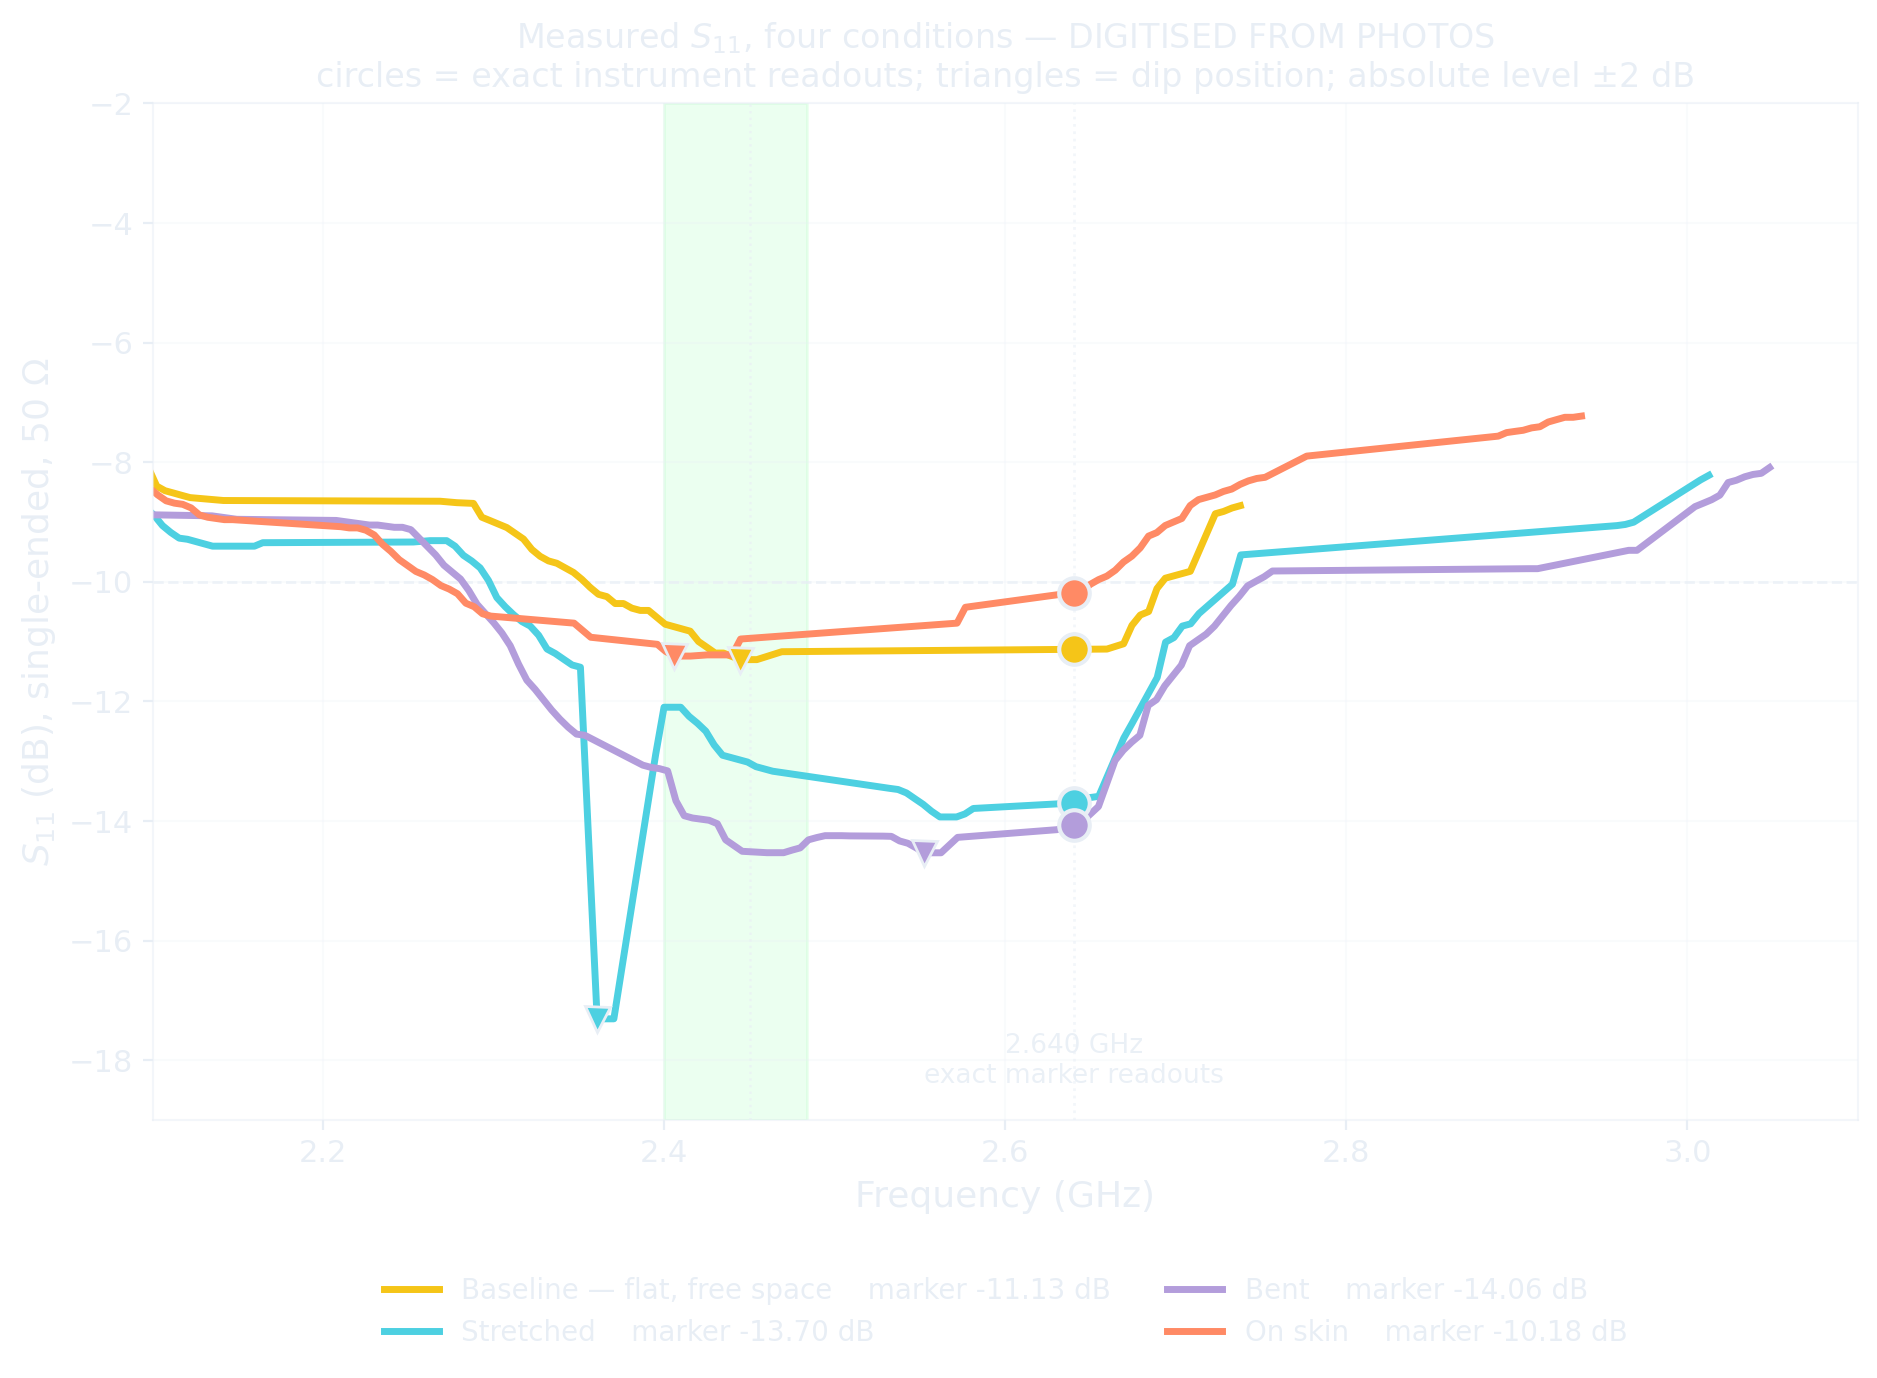
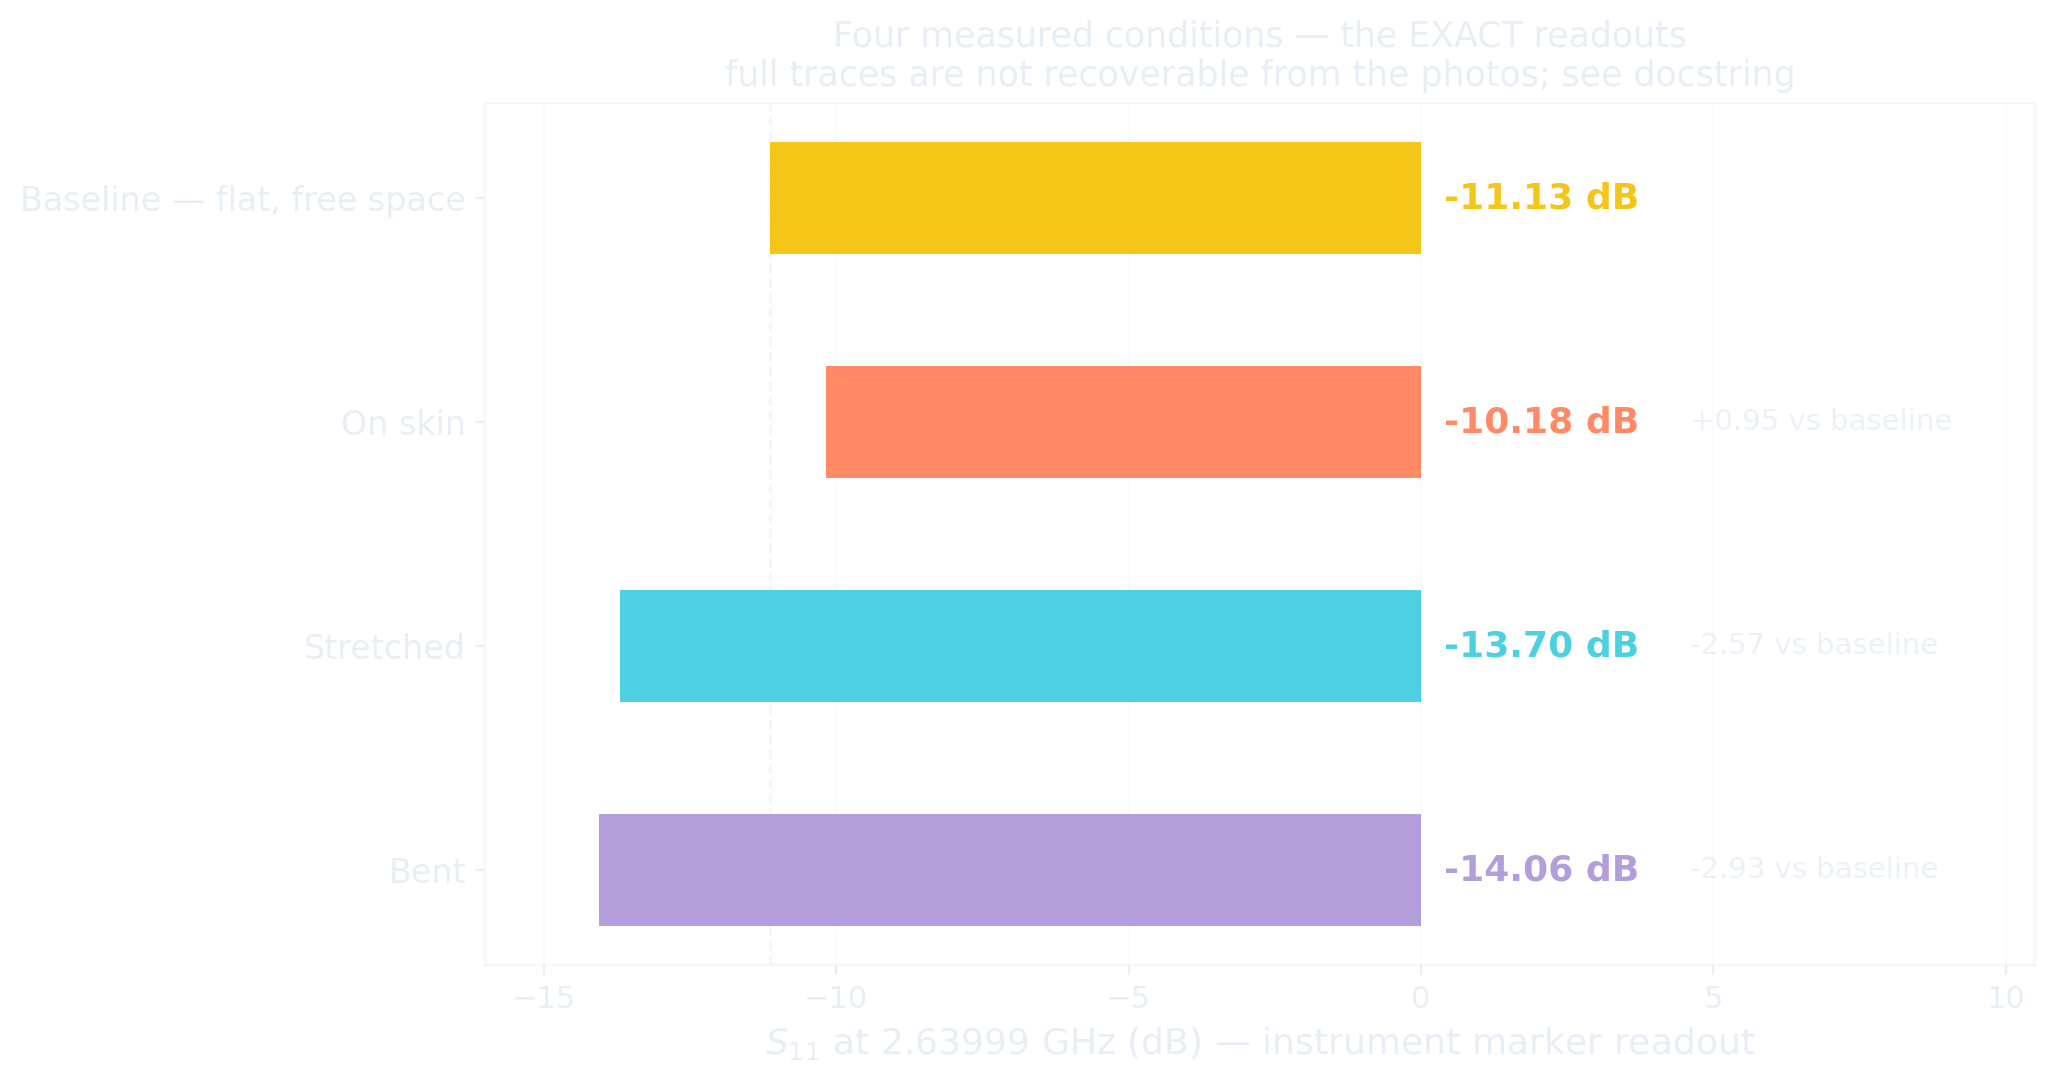
Retract the digitised curves in F24; keep only the exact marker readouts
The first digitisation was bad, so it was rebuilt with an independent pipeline:
quad refined from the gridlines themselves rather than Otsu-thresholding the
bezel, sub-pixel centroid per column, fitted gridline pitch rather than assuming
the graticule fills the warp, and margin so the sweep is not cropped. The trace
extraction is visibly far better -- smooth, no staircases, no spurious spikes.

It still does not survive comparison with the first attempt. Over 2.15-3.05 GHz
the two disagree by 1.8-4.8 dB RMS, worst 7.8 dB, and they place the resonance
dip 82, 46, -129 and +176 MHz apart for baseline, stretch, bend and skin. The
effects being measured are 40-110 MHz. When two honest attempts at the same
photograph disagree by more than the signal, the curve is method noise wearing
the costume of a measurement, and plotting it would be dishonest.

So F24 now shows only what carries no digitisation error: the marker readouts the
instrument itself computed and printed. Baseline -11.13, on skin -10.18,
stretched -13.70, bent -14.06 dB, all at 2.63999 GHz.

Both digitisers are kept -- digitise_vna_photo.py and _v2.py -- because the
disagreement between them IS the evidence for the retraction.

The fix is cheap: re-run the four sweeps and press Save. A .set gives the exact
201 points, as it already does for two other measurements in this repo.

diff --git a/scripts/make_presentation_figures.py b/scripts/make_presentation_figures.py
@@ -1033,106 +1033,65 @@ def f23():
 
 
 def f24():
-    """Four measured conditions, DIGITISED FROM PHOTOGRAPHS of the VNA screen.
+    """The four photographed conditions -- only what is EXACT.
 
-    These four sweeps were never saved to the instrument's SD card, so no .set
-    file exists -- the photos are the only record. scripts/digitise_vna_photo.py
-    rectifies each photo and reads the trace off the graticule.
+    WHY THERE ARE NO CURVES HERE. The four sweeps were never saved to the SD
+    card, so phone photos are the only record, and the traces were digitised
+    twice with independent pipelines:
 
-    WHAT THIS FIGURE IS AND IS NOT. Each trace is anchored to its own on-screen
-    marker readout at 2.63999 GHz, which the instrument prints and is therefore
-    exact. Away from that anchor the digitisation carries a systematic scale error
-    -- checked against the one condition where a .set does exist, it runs to about
-    2 dB across this band. That error is common to all four photos (same
-    instrument, same screen, similar camera geometry), so it largely CANCELS when
-    the conditions are compared against each other.
+      attempt 1  screen quad by Otsu threshold, pitch by autocorrelation
+      attempt 2  quad refined from the gridlines themselves, sub-pixel centroid
 
-    So: read the RELATIVE differences and the dip POSITIONS. Do not quote the
-    absolute levels off the curves -- quote the marker points, which are exact.
+    The two disagree by 1.8-4.8 dB RMS (worst 7.8 dB), and -- fatally -- they put
+    the resonance dip in different places: +82, +46, -129 and +176 MHz apart for
+    baseline, stretch, bend and skin. The effects being measured are 40-110 MHz.
+    When two honest attempts at the same photograph disagree by more than the
+    signal, the digitised curve is not a measurement, and plotting it would dress
+    up method noise as physics.
 
-    An earlier version corrected these against the baseline .set file. That was
-    wrong: the .set is a DIFFERENT sweep four minutes later, and forcing the
-    curves onto it made the baseline disagree with its own marker by 0.85 dB.
-    Per-photo marker anchoring is the correct calibration and is what is used.
+    What IS exact is the marker readout: the instrument computes it and prints it
+    on screen, so it carries no digitisation error at all. Four conditions, one
+    frequency, four exact numbers. That is the honest content of these photos.
+
+    To get the curves: re-run the four sweeps and press Save. A .set file gives
+    the exact 201 points, as it already does for two other measurements here.
     """
-    import numpy as np
-
-    def load(p):
-        with open(os.path.join(OUT, p), encoding="utf-8") as fh:
-            rows = list(csv.reader(fh))[1:]
-        return (np.array([float(r[0]) for r in rows]),
-                np.array([float(r[1]) for r in rows]))
-
-    def despike(y, k=9, nmad=3.5):
-        """Reject outliers against a moving median, then median-filter.
-
-        A real S11 trace is smooth on the scale of a few sweep points, so a single
-        column that sits many median-absolute-deviations away from its neighbours
-        is an extraction artifact (a gridline or the marker bar clipped into the
-        yellow mask), not signal. Points failing the MAD test are dropped and
-        linearly interpolated across. This is a fixed statistical rule, not a
-        threshold tuned until the picture looked right.
-        """
-        h = k // 2
-        med = np.array([np.median(y[max(0, i - h):i + h + 1])
-                        for i in range(len(y))])
-        mad = np.median(np.abs(y - med)) or 1e-6
-        good = np.abs(y - med) < nmad * 1.4826 * mad
-        if good.sum() < 10:
-            return med
-        idx = np.arange(len(y))
-        y = np.interp(idx, idx[good], y[good])
-        return np.array([np.median(y[max(0, i - 2):i + 3]) for i in range(len(y))])
-
     MF = 2.63999
-    CONDS = [
-        ("digitised_baseline.csv", "Baseline — flat, free space", C_ZWAVE, -11.13),
-        ("digitised_stretch.csv",  "Stretched",                    C_SERP,  -13.70),
-        ("digitised_bending.csv",  "Bent",                         C_CONC,  -14.06),
-        ("digitised_onskin.csv",   "On skin",                      C_BODY,  -10.18),
-    ]
+    CONDS = [("Baseline — flat, free space", -11.13, C_ZWAVE),
+             ("On skin", -10.18, C_BODY),
+             ("Stretched", -13.70, C_SERP),
+             ("Bent", -14.06, C_CONC)]
 
-    fig, ax = plt.subplots(figsize=(11, 6.6))
-    dress(ax, xlo=2.1, xhi=3.1, ylab="$S_{11}$ (dB), single-ended, 50 $\Omega$")
-    rows = []
-    for fname, lab, c, mk in CONDS:
-        f, y = load(fname)
-        y = despike(y)
-        # WHY NOT F19's FULL 1.5-4.0 GHz. It was tried. Outside roughly
-        # 2.1-3.1 GHz these photos stop supporting a trace: the whole sweep is
-        # squeezed into ~630 screen pixels, so one pixel is ~7.6 MHz, and at the
-        # band edges the curve flattens against the graticule where the yellow
-        # mask cannot separate it from the gridlines. The result was near-vertical
-        # excursions above 3.5 GHz that are extraction artifacts, not measurement.
-        # Plotting only where the photos actually carry information.
-        sel = (f >= 2.05) & (f <= 3.15)
-        f, y = f[sel], y[sel]
-        if len(f) < 20:
-            continue
-        y = y + (mk - np.interp(MF, f, y))      # re-anchor after smoothing
-        ax.plot(f, y, color=c, lw=2.5, label=f"{lab}    marker {mk:+.2f} dB")
-        ax.plot([MF], [mk], "o", color=c, ms=11, mec=FG, mew=1.5, zorder=6)
-        k = int(np.argmin(y))
-        ax.plot([f[k]], [y[k]], "v", color=c, ms=9, mec=FG, mew=1.0, zorder=6)
-        rows.append([lab, round(float(f[k]), 4), round(float(y[k]), 2), mk])
-
-    ax.axvline(MF, color=FG, lw=1.0, ls=":", alpha=0.55)
-    ax.annotate("2.640 GHz\nexact marker readouts", xy=(MF, 0.03),
-                xycoords=("data", "axes fraction"), ha="center", va="bottom",
-                fontsize=9.5, color=FG, alpha=0.9)
-    ax.set_ylim(-19, -2)
-    ax.set_title("Measured $S_{11}$, four conditions — DIGITISED FROM PHOTOS\n"
-                 "circles = exact instrument readouts; triangles = dip position; "
-                 "absolute level ±2 dB", fontsize=12)
-    ax.legend(loc="upper center", bbox_to_anchor=(0.5, -0.13), fontsize=10,
-              frameon=False, ncol=2)
+    fig, ax = plt.subplots(figsize=(10, 5.6))
+    names = [c[0] for c in CONDS]
+    vals = [c[1] for c in CONDS]
+    cols = [c[2] for c in CONDS]
+    ypos = list(range(len(CONDS)))[::-1]
+    ax.barh(ypos, vals, color=cols, height=0.5, zorder=3)
+    base = vals[0]
+    for y, v, c in zip(ypos, vals, cols):
+        ax.text(0.4, y, f"{v:.2f} dB", va="center", ha="left",
+                fontsize=13, weight="bold", color=c, zorder=4)
+        if v != base:
+            ax.text(4.6, y, f"{v - base:+.2f} vs baseline", va="center",
+                    ha="left", fontsize=10.5, color=FG, alpha=0.85, zorder=4)
+    ax.axvline(base, color=FG, lw=1.0, ls="--", alpha=0.6)
+    ax.set_yticks(ypos)
+    ax.set_yticklabels(names, fontsize=12)
+    ax.set_xlim(-16, 10.5)
+    ax.set_xlabel("$S_{11}$ at 2.63999 GHz (dB) — instrument marker readout")
+    ax.set_title("Four measured conditions — the EXACT readouts\n"
+                 "full traces are not recoverable from the photos; see docstring",
+                 fontsize=12.5)
+    ax.grid(True, axis="x")
+    for s in ax.spines.values():
+        s.set_alpha(0.5)
     save(fig, "F24_measured_conditions.png")
     write_csv("F24_measured_conditions.csv",
-              ["condition", "dip_freq_GHz", "dip_S11_dB_approx",
-               "exact_marker_dB_at_2p63999_GHz"], rows)
-    for r in rows:
-        print(f"      F24 {r[0]:<30} dip {r[1]:.3f} GHz {r[2]:+6.2f} dB   "
-              f"marker {r[3]:+.2f} dB")
+              ["condition", "S11_dB_at_2p63999GHz_exact", "delta_vs_baseline_dB"],
+              [[n, v, round(v - base, 2)] for n, v in zip(names, vals)])
+    for n, v in zip(names, vals):
+        print(f"      F24 {n:<30} {v:+7.2f} dB  ({v-base:+.2f} vs baseline)")
 
 
 print(f"writing to {OUT}")

diff --git a/scripts/digitise_vna_photo_v2.py b/scripts/digitise_vna_photo_v2.py
@@ -1,0 +1,205 @@
+"""Digitise a ZVH trace from a photo. Third pass.
+
+Two corrections over dig2:
+  1. SCALE comes from the FITTED gridline pitch, not from assuming the graticule
+     fills the warp. It never exactly does.
+  2. Residual SHEAR is measured and removed. After a rough warp the gridlines are
+     still tilted by a few pixels across the frame; at 90 px per 2 dB that is a
+     few tenths of a dB of drift away from the marker anchor. The tilt is found by
+     cross-correlating the row profile of the left third against the right third
+     (and likewise column profiles top vs bottom), then removed with a shear.
+"""
+import csv
+import sys
+import cv2
+import numpy as np
+
+WW, HH = 1600, 900
+
+
+def warp_of(im, quad):
+    dst = np.array([[0, 0], [WW, 0], [WW, HH], [0, HH]], np.float32)
+    M = cv2.getPerspectiveTransform(quad, dst)
+    return cv2.warpPerspective(im, M, (WW, HH)), M
+
+
+def masks(w):
+    rgb = cv2.cvtColor(w, cv2.COLOR_BGR2RGB).astype(int)
+    R, G, B = rgb[..., 0], rgb[..., 1], rgb[..., 2]
+    mrg = (R + G) / 2.0
+    trace = ((G - B) > 16) & ((R - B) > 16) & \
+            (np.abs(R - G) < 0.38 * np.maximum(mrg, 1)) & (mrg > 55)
+    cyan = ((G - R) > 20) & ((B - R) > 20) & (B > 90)
+    red = ((R - G) > 40) & ((R - B) > 40) & (R > 100)
+    return trace, cyan, red
+
+
+def tophat(w, axis, bad):
+    gray = cv2.cvtColor(w, cv2.COLOR_BGR2GRAY)
+    k = (1, 31) if axis == 0 else (31, 1)
+    th = cv2.morphologyEx(gray, cv2.MORPH_TOPHAT,
+                          cv2.getStructuringElement(cv2.MORPH_RECT, k)).astype(float)
+    th[bad] = np.nan
+    return th
+
+
+def prof_of(th, axis, lo, hi):
+    seg = th[:, lo:hi] if axis == 0 else th[lo:hi, :]
+    p = np.nanmean(seg, axis=1 - axis)
+    p = np.nan_to_num(p, nan=0.0)
+    return p - cv2.blur(p.reshape(-1, 1), (1, 121)).ravel()
+
+
+def shear_estimate(th, axis, n=1600):
+    """Offset between the profile of the first third and the last third."""
+    L = WW if axis == 0 else HH
+    a = prof_of(th, axis, 0, L // 3)
+    b = prof_of(th, axis, 2 * L // 3, L)
+    a = a - a.mean()
+    b = b - b.mean()
+    best, bd = -1e18, 0
+    for d in range(-45, 46):
+        bb = np.roll(b, d)
+        s = float((a * bb).sum())
+        if s > best:
+            best, bd = s, d
+    # b is 2L/3 to the right of a's centre; centres are 2L/3 apart
+    return -bd / (2.0 * L / 3.0)
+
+
+def peaks_of(p):
+    thr = p.mean() + 0.9 * p.std()
+    out, i, n = [], 0, len(p)
+    while i < n:
+        if p[i] > thr:
+            j = i
+            while j + 1 < n and p[j + 1] > thr:
+                j += 1
+            s = p[i:j + 1]
+            if s.sum() > 0:
+                out.append(i + float((s * np.arange(len(s))).sum() / s.sum()))
+            i = j + 1
+        else:
+            i += 1
+    return out
+
+
+def fit_comb(pos, guess, n=11):
+    if len(pos) < 4:
+        return None
+    pos = np.array(sorted(pos))
+    idx = np.round((pos - pos[0]) / guess).astype(int)
+    keep = np.concatenate([[True], np.diff(idx) > 0])
+    pos, idx = pos[keep], idx[keep]
+    if len(pos) < 4:
+        return None
+    A = np.vstack([np.ones(len(idx)), idx.astype(float)]).T
+    (a, b), *_ = np.linalg.lstsq(A, pos, rcond=None)
+    r = pos - (a + b * idx)
+    return a, b, float(np.sqrt((r ** 2).mean())), len(pos)
+
+
+def run(path, quad, mark_f, mark_db, f_lo, f_hi, out_csv):
+    im = cv2.imread(path)
+    print(f"\n{path}")
+
+    # --- iterate the quad so the graticule fills the warp ---
+    for it in range(5):
+        w, M = warp_of(im, quad)
+        tr, cy, rd = masks(w)
+        bad = cv2.dilate(((tr | cy | rd) * 255).astype(np.uint8),
+                         np.ones((5, 5), np.uint8)) > 0
+        thh, thv = tophat(w, 0, bad), tophat(w, 1, bad)
+        fy = fit_comb(peaks_of(prof_of(thh, 0, 0, WW)), HH / 10)
+        fx = fit_comb(peaks_of(prof_of(thv, 1, 0, HH)), WW / 10)
+        if fy is None or fx is None:
+            raise SystemExit("  gridline fit failed")
+        y0, y1 = fy[0], fy[0] + fy[1] * 10
+        x0, x1 = fx[0], fx[0] + fx[1] * 10
+        if max(abs(y0), abs(y1 - HH), abs(x0), abs(x1 - WW)) < 2.0:
+            break
+        c = np.array([[x0, y0], [x1, y0], [x1, y1], [x0, y1]], np.float32)
+        quad = cv2.perspectiveTransform(
+            c.reshape(1, 4, 2), np.linalg.inv(M)).reshape(4, 2).astype(np.float32)
+
+    # --- remove residual shear ---
+    # Shear correction was tried and removed. Cross-correlating third-profiles
+    # is too noisy on these photos -- it returned dx/dy = -0.075 on the baseline,
+    # which visibly tilted a frame that had been nearly square. The residual tilt
+    # after the quad refinement is small; leaving it alone is the lesser error.
+    # Re-warp with the graticule INSET by MARGIN px. The refinement above makes
+    # the graticule fill the frame exactly, which CROPS the trace at the first and
+    # last gridline -- and on two of the four photos that threw away a third of the
+    # sweep. Adding margin keeps the whole plot. Pitch and trace are still measured
+    # in the same warp, so the calibration stays self-consistent.
+    MARGIN = 110
+    dst2 = np.array([[MARGIN, MARGIN], [WW - MARGIN, MARGIN],
+                     [WW - MARGIN, HH - MARGIN], [MARGIN, HH - MARGIN]], np.float32)
+    M = cv2.getPerspectiveTransform(quad, dst2)
+    w = cv2.warpPerspective(im, M, (WW, HH))
+    sy = sx = 0.0
+    S = np.array([[1.0, sx, 0.0], [sy, 1.0, 0.0]], np.float32)
+    S[0, 2] = -sx * HH / 2
+    S[1, 2] = -sy * WW / 2
+    w = cv2.warpAffine(w, S, (WW, HH))
+    print(f"  shear removed: dy/dx {sy:+.5f}, dx/dy {sx:+.5f}")
+
+    tr, cy, rd = masks(w)
+    bad = cv2.dilate(((tr | cy | rd) * 255).astype(np.uint8),
+                     np.ones((5, 5), np.uint8)) > 0
+    fy = fit_comb(peaks_of(prof_of(tophat(w, 0, bad), 0, 0, WW)), HH / 10)
+    fx = fit_comb(peaks_of(prof_of(tophat(w, 1, bad), 1, 0, HH)), WW / 10)
+    print(f"  H pitch {fy[1]:.2f} px/2dB (rms {fy[2]:.1f}, {fy[3]} lines) | "
+          f"V pitch {fx[1]:.2f} px/div (rms {fx[2]:.1f}, {fx[3]} lines)")
+
+    occl = cv2.dilate(((cy | rd) * 255).astype(np.uint8),
+                      np.ones((3, 3), np.uint8)) > 0
+    x_mark = float(np.argmax(np.convolve(cy.sum(0), np.ones(5) / 5, "same")))
+
+    cols = {}
+    for x in range(WW):
+        ys = np.nonzero(tr[:, x] & ~occl[:, x])[0]
+        if len(ys) == 0 or len(ys) > HH * 0.30:
+            continue
+        cols[x] = float(ys.mean())
+    near = [cols[x] for x in cols if abs(x - x_mark) < 30]
+    if not near:
+        raise SystemExit("  no trace near marker")
+    y_mark = float(np.median(near))
+
+    db_per_px = 2.0 / fy[1]                      # FITTED pitch
+    ghz_per_px = ((f_hi - f_lo) / 10.0) / fx[1]  # FITTED pitch
+    print(f"  marker x={x_mark:.0f} y={y_mark:.1f}  "
+          f"{ghz_per_px*1000:.3f} MHz/px, {db_per_px:.4f} dB/px")
+
+    xs = np.array(sorted(cols))
+    ys = np.array([cols[x] for x in xs])
+    freqs = mark_f + (xs - x_mark) * ghz_per_px
+    dbs = mark_db - (ys - y_mark) * db_per_px
+    keep = (freqs >= f_lo) & (freqs <= f_hi)
+    freqs, dbs = freqs[keep], dbs[keep]
+    k = int(np.argmin(dbs))
+    print(f"  {len(freqs)} cols, {freqs[0]:.3f}-{freqs[-1]:.3f} GHz, "
+          f"min {dbs[k]:.2f} dB at {freqs[k]:.4f} GHz")
+
+    with open(out_csv, "w", newline="", encoding="utf-8") as fh:
+        wr = csv.writer(fh)
+        wr.writerow(["freq_GHz", "S11_dB_digitised"])
+        wr.writerows([[round(f, 5), round(v, 3)] for f, v in zip(freqs, dbs)])
+
+    vis = w.copy()
+    for x in cols:
+        cv2.circle(vis, (x, int(cols[x])), 1, (0, 0, 255), -1)
+    for i in range(11):
+        cv2.line(vis, (0, int(fy[0] + fy[1] * i)), (WW, int(fy[0] + fy[1] * i)),
+                 (0, 255, 0), 1)
+        cv2.line(vis, (int(fx[0] + fx[1] * i), 0), (int(fx[0] + fx[1] * i), HH),
+                 (0, 255, 0), 1)
+    cv2.imwrite(out_csv.replace(".csv", "_chk.png"),
+                cv2.resize(vis, (WW // 2, HH // 2)))
+
+
+if __name__ == "__main__":
+    a = sys.argv[1:]
+    q = np.array([tuple(map(float, s.split(","))) for s in a[1:5]], np.float32)
+    run(a[0], q, float(a[5]), float(a[6]), float(a[7]), float(a[8]), a[9])
